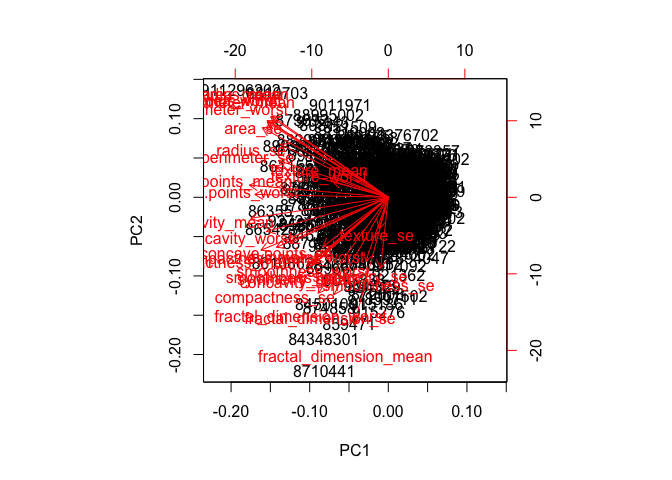
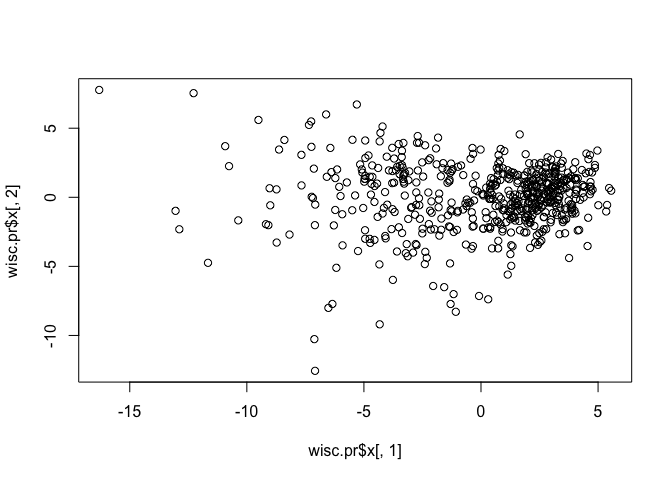
Edited class 9

diff --git a/class09/class09.md b/class09/class09.md
@@ -6,15 +6,14 @@ Katelynn Kazane
 **PCA and Clustering Project**
 ------------------------------
 
-Get our input data
-------------------
+Starting out, we need to isolate our input data. *note: give the input file a generic name so we can reuse our code for any file*
 
 ``` r
 fna.data <- "WisconsinCancer.csv"
 wisc.df <- read.csv(fna.data)
 ```
 
-Always double check that your data is correct.
+Always double check that your data is correct- head() allows us to look at the first six lines of the file.
 
 ``` r
 head(wisc.df)
@@ -77,7 +76,9 @@ head(wisc.df)
     ## 5                 0.07678 NA
     ## 6                 0.12440 NA
 
-The last row has an undefined value, we also want to exclude diagnosis and patient IDs before we analyze all of this information. We'll only be using columns 3 to the next to last column. Now we're going to look at the number of patients and features.
+The last row has an undefined value, and we also want to exclude diagnosis and patient IDs before we analyze all of this information. (For both ease and in the real world confidentiality). We'll only be using data from column 3 to the next to last column.
+
+Here we're going to look at the number of patients (rows) and features (columns/categories).
 
 ``` r
 #number of patients
@@ -93,7 +94,7 @@ ncol(wisc.df)
 
     ## [1] 33
 
-Cleaning up the data. Taking columns 3-32 (for reasons above).
+Once we know the total number of columns and rows, we can clean up the data. Taking columns 3-32 (for reasons above).
 
 ``` r
 wisc.data <- wisc.df[,3:32]
@@ -152,7 +153,7 @@ head(wisc.data)
 
 If we want to get rid of columns in the middle, we can make a vector: c(4, 10, 32)
 
-Now we want to set the row names to the patient IDs. That way we can track the patients without treating the IDs as values to be incorporated.
+Now we want to set the row names to the patient IDs. That way we can track the patients without treating the IDs as values to be incorporated. *note: use head() again to check your work*
 
 ``` r
 rownames(wisc.data) <- wisc.df$id
@@ -216,6 +217,8 @@ head(wisc.data)
     ## 84358402                 0.07678
     ## 843786                   0.12440
 
+Setting up an example of how to *quickly* characterize data.
+
 How many malignant v begnin tumors are there?
 
 ``` r
@@ -226,7 +229,7 @@ table(wisc.df$diagnosis)
     ##   B   M 
     ## 357 212
 
-We want to find out how many of the columns are mean values. Therefore we have to search for the columns containing "mean". (Remember we're using "wisc.data"")
+We want to find out how many of the columns are mean values. Therefore we have to search for the columns containing "mean". *note: remember we're using "wisc.data"* *note: we add the \_ before mean, so that we only get mean as a single work*
 
 ``` r
 #colnames(wisc.data)
@@ -235,7 +238,7 @@ length( grep("_mean",colnames(wisc.data)) )
 
     ## [1] 10
 
-We have how many there are, but to find out the names, we need to reference the values again.
+After calculating how many columns are mean values, we want to find out the names of those columns. *note: remember we need to reference the columns again*
 
 ``` r
 inds <- grep("_mean",colnames(wisc.data))
@@ -248,9 +251,9 @@ colnames(wisc.data)[inds]
     ##  [7] "concavity_mean"         "concave.points_mean"   
     ##  [9] "symmetry_mean"          "fractal_dimension_mean"
 
-**Principal Component Analysis**
+**Preparing the data for Principal Component Analysis** Before we start analysis, it's worth checking the column means and standard deviations to examine if we need to scale things.
 
-Checking the column means and standard deviations to examine if we need to scale things.
+**Mean values**
 
 ``` r
 # we can use this <- colMeans(wisc.data). But the following is better:
@@ -280,6 +283,8 @@ round( apply(wisc.data, 2, mean), 2)
 
 Note that apply(wisc.data, **2**) refers to columns. 1 would refer to rows.
 
+**Standard Deviations**
+
 ``` r
 round( apply(wisc.data, 2, sd), 2)
 ```
@@ -305,13 +310,15 @@ round( apply(wisc.data, 2, sd), 2)
     ##    concave.points_worst          symmetry_worst fractal_dimension_worst 
     ##                    0.07                    0.06                    0.02
 
-Now PCA time! We need scaling.
+After looking at the means and SD, we know we need to scale the data. Now PCA time!
 
 Principal Components Analysis (PCA)
 -----------------------------------
 
 ``` r
 wisc.pr <- prcomp(wisc.data, scale = TRUE)
+#remember we needed to scale!
+
 summary(wisc.pr)
 ```
 
@@ -341,9 +348,7 @@ summary(wisc.pr)
 biplot(wisc.pr)
 ```
 
-![](class09_files/figure-markdown_github/unnamed-chunk-13-1.png)
-
-This plot is awful. We are going to fix it.
+![](class09_files/figure-markdown_github/unnamed-chunk-12-1.png) This plot is awful. We are going to fix it.
 
 Here's how we make our own/make it nicer:
 
@@ -351,9 +356,9 @@ Here's how we make our own/make it nicer:
 plot( wisc.pr$x[,1], wisc.pr$x[,2])
 ```
 
-![](class09_files/figure-markdown_github/unnamed-chunk-14-1.png)
+![](class09_files/figure-markdown_github/unnamed-chunk-13-1.png)
 
-We have a graph- we want to add some details and expand on it (using the B vs M diagnosis). Ideally we'll want to color it by diagnosis. Because pretty is useful. (And pattern recognition is cool).
+We have a graph- we want to add some details and expand on it (using the B vs M diagnosis). Ideally we'll want to color it by diagnosis. Because color differences makes visualizing data much more simple. (And pattern recognition is cool).
 
 ``` r
 wisc.df$diagnosis
@@ -383,7 +388,7 @@ wisc.df$diagnosis
 plot( wisc.pr$x[,1], wisc.pr$x[,2], col= wisc.df$diagnosis)
 ```
 
-![](class09_files/figure-markdown_github/unnamed-chunk-16-1.png)
+![](class09_files/figure-markdown_github/unnamed-chunk-15-1.png)
 
 Time for us to really dig in to the data.
 
@@ -399,7 +404,7 @@ pve <- round(variance/sum(variance) * 100, 2)
 plot(pve, type = "o")
 ```
 
-![](class09_files/figure-markdown_github/unnamed-chunk-18-1.png)
+![](class09_files/figure-markdown_github/unnamed-chunk-17-1.png)
 
 Or we can also make a bar plot. This one has a very strange axis. It is called "data driven".
 
@@ -410,12 +415,12 @@ barplot(pve, axes = FALSE, names.arg = paste("PC", 1:length(pve)), las = 2 )
 axis(2, round(pve))
 ```
 
-![](class09_files/figure-markdown_github/unnamed-chunk-19-1.png)
+![](class09_files/figure-markdown_github/unnamed-chunk-18-1.png)
 
 Clustering in Principal Component Space
 ---------------------------------------
 
-We want to make a distance matrix and then use this to make a histogram (e.g. getting a distance matrix from the PCA results- wisc.pr$x).
+We want to make a distance matrix and then use it to make a histogram (e.g. getting a distance matrix from the PCA results- wisc.pr$x).
 
 ``` r
 d <- dist(wisc.pr$x[,1:2])
@@ -423,13 +428,13 @@ hc <- hclust(d, method = "ward.D2")
 plot(hc)
 ```
 
-![](class09_files/figure-markdown_github/unnamed-chunk-20-1.png)
+![](class09_files/figure-markdown_github/unnamed-chunk-19-1.png)
 
-How do we figure out cluster membership? cutree! Will clip the branches.
+How do we figure out cluster membership? Use **cutree()** to "clip the branches". This makes the data much more managable.
 
 ``` r
 grp3 <- cutree(hc, k = 3)
-#This returns a large vector- shows us which ID is in which clusters. So we make a table to show us how many individuals are in each group. 
+#This returns a large vector- shows us which ID is in which clusters. So we make a table to show how many individuals are in each group. 
 table(grp3)
 ```
 
@@ -443,12 +448,12 @@ Now we'll plot our PCA colored by the clusters we just made.
 plot(wisc.pr$x[,1], wisc.pr$x[,2], xlab = "PC1", ylab = "PC2", col = grp3)
 ```
 
-![](class09_files/figure-markdown_github/unnamed-chunk-22-1.png)
+![](class09_files/figure-markdown_github/unnamed-chunk-21-1.png)
 
-We have our three groups. It'll be interesting/more informative to show the contencts of each group. This is known as **Cross Tabulation**
+Now we have our three groups. It'll be interesting/more informative to show the contencts of each group. This is known as **cross tabulation**
 
 ``` r
-#table(grp3, ) .... first we need to make diagnosis vector. 
+#table(grp3, ) .... first we need to make a diagnosis vector. 
 #diagnosis 
 
 diagnosis <- wisc.df$diagnosis == "M"
@@ -498,6 +503,6 @@ plot(wisc.pr$x[,1:2], col = wisc.df$diagnosis)
 points(npc[,1], npc[,2], col=c("green","blue"), pch = 15, cex = 1.5)
 ```
 
-![](class09_files/figure-markdown_github/unnamed-chunk-25-1.png)
+![](class09_files/figure-markdown_github/unnamed-chunk-24-1.png)
 
-Now we have a framework for how to analyze this data. We can look at past trends, and then put new data into the existing trends. And this is just the start.
+Now we have a framework for how to analyze our large data set. We can look at past trends, and then fit new data into the existing trends.
